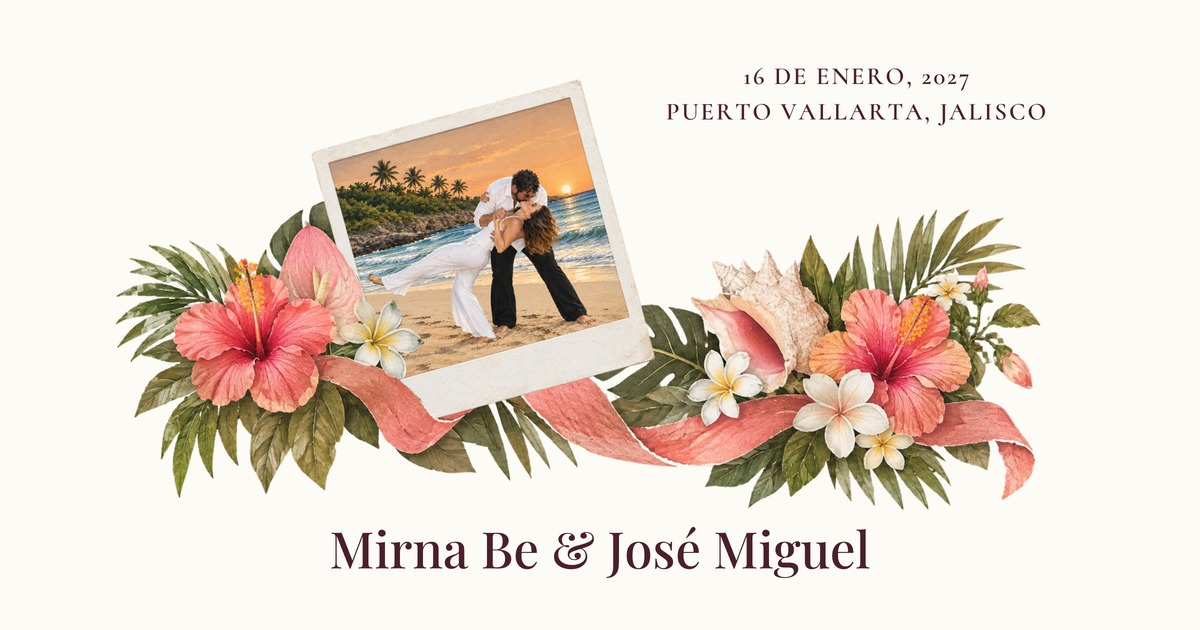
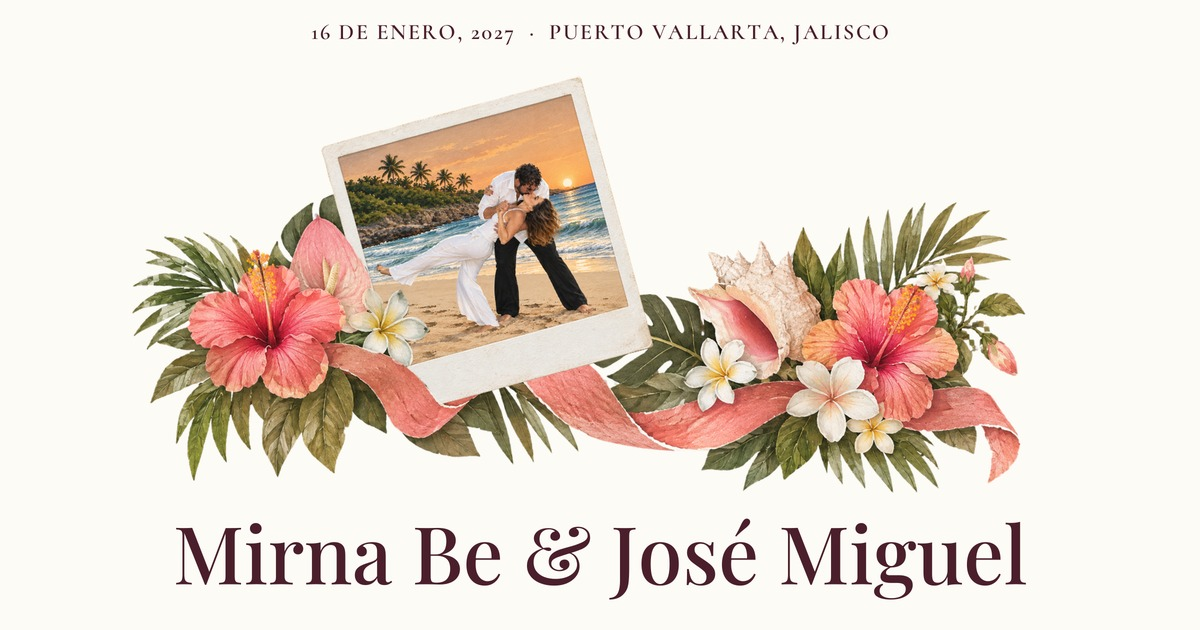
Cover: bigger one-line names (about the flowers' width), date/place centered on top
Names scale to ~90% of the art width; date/place is a single centered
line with a middle dot in the empty band above the artwork. Thumbnail
regenerated with the same layout.

diff --git a/index.html b/index.html
@@ -14,7 +14,7 @@
 -->
 <meta property="og:title" content="Mirna Be & José Miguel — ¡Nos Casamos!" />
 <meta property="og:description" content="Acompáñanos a celebrar. 16 de enero, 2027 · Puerto Vallarta, Jalisco" />
-<meta property="og:image" content="assets/og/og-image.jpg?v=6" />
+<meta property="og:image" content="assets/og/og-image.jpg?v=7" />
 <meta property="og:type" content="website" />
 
 <link rel="preconnect" href="https://fonts.googleapis.com" />
@@ -27,7 +27,7 @@
 
 <!-- Bump every ?v= below on any CSS/JS change — GitHub Pages/browsers
      cache these aggressively, which caused a stale-CSS bug once already. -->
-<link rel="stylesheet" href="css/style.css?v=52" />
+<link rel="stylesheet" href="css/style.css?v=53" />
 </head>
 <body>
 
@@ -110,7 +110,7 @@
         <source srcset="assets/images/portada.webp?v=2" type="image/webp" />
         <img src="assets/images/portada.png?v=2" alt="Polaroid de Mirna y José Miguel bailando en la playa al atardecer, rodeada de flores tropicales, conchas y un listón coral" loading="eager" width="1366" height="768" />
       </picture>
-      <p class="cover__meta" data-i18n="cover.meta">16 DE ENERO, 2027<br />PUERTO VALLARTA, JALISCO</p>
+      <p class="cover__meta" data-i18n="cover.meta">16 DE ENERO, 2027 &nbsp;&middot;&nbsp; PUERTO VALLARTA, JALISCO</p>
       <p class="cover__names" aria-hidden="true">Mirna Be &amp; José Miguel</p>
     </div>
   </section>
@@ -605,7 +605,7 @@
   </a>
 </footer>
 
-<script src="js/i18n.js?v=19"></script>
+<script src="js/i18n.js?v=20"></script>
 <script type="module" src="js/rsvp.js?v=5"></script>
 <script type="module" src="js/advice.js?v=1"></script>
 <script src="js/hotels.js?v=3"></script>

diff --git a/css/style.css b/css/style.css
@@ -379,21 +379,22 @@ h1, h2, h3 {
 /* Text sits over the empty corners of the artwork; positions are
    percentages of the art and font sizes are container-width units, so
    everything scales together (min sizes keep it readable on phones). */
-/* Date/place sits in the empty top-right corner of the artwork; the
-   names go on one line just below it. Sizes are container-width units so
-   everything scales with the art (min sizes keep phones readable). */
+/* Date/place: one line centered in the empty band at the top of the
+   artwork; the names go on one big line just below it, nearly as wide as
+   the flowers. Sizes are container-width units so everything scales with
+   the art (min sizes keep phones readable). */
 .cover__meta {
   position: absolute;
-  left: 76%;
-  top: 11%;
+  left: 50%;
+  top: 3.5%;
   transform: translateX(-50%);
   margin: 0;
   text-align: center;
   font-family: var(--font-body);
   font-weight: 600;
-  font-size: clamp(11px, 2.5cqw, 23px);
+  font-size: clamp(9px, 2.3cqw, 22px);
   letter-spacing: 0.08em;
-  line-height: 1.45;
+  line-height: 1.3;
   color: var(--color-ink);
   white-space: nowrap;
 }
@@ -403,7 +404,7 @@ h1, h2, h3 {
   text-align: center;
   font-family: var(--font-display);
   font-weight: 500;
-  font-size: clamp(21px, 5.2cqw, 48px);
+  font-size: clamp(22px, 8.4cqw, 78px);
   line-height: 1.1;
   color: var(--color-ink);
   white-space: nowrap;

diff --git a/js/i18n.js b/js/i18n.js
@@ -16,7 +16,7 @@ const translations = {
     'nav.gallery': 'Galería',
 
     'cover.eyebrow': 'Nos casamos',
-    'cover.meta': '16 DE ENERO, 2027<br />PUERTO VALLARTA, JALISCO',
+    'cover.meta': '16 DE ENERO, 2027 &nbsp;&middot;&nbsp; PUERTO VALLARTA, JALISCO',
     'cover.date': '16 de enero, 2027',
     'cover.city': 'Puerto Vallarta, Jalisco',
 
@@ -142,7 +142,7 @@ const translations = {
     'nav.gallery': 'Gallery',
 
     'cover.eyebrow': "We're getting married",
-    'cover.meta': 'JANUARY 16TH, 2027<br />PUERTO VALLARTA, JALISCO',
+    'cover.meta': 'JANUARY 16TH, 2027 &nbsp;&middot;&nbsp; PUERTO VALLARTA, JALISCO',
     'cover.date': 'January 16th, 2027',
     'cover.city': 'Puerto Vallarta, Jalisco',
 
